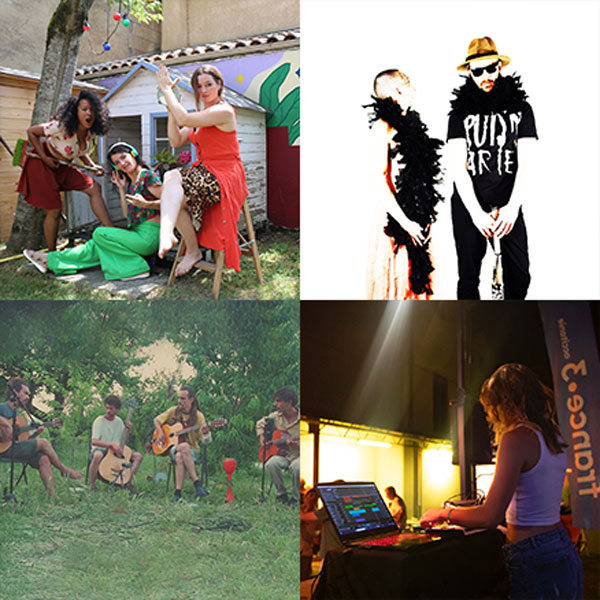
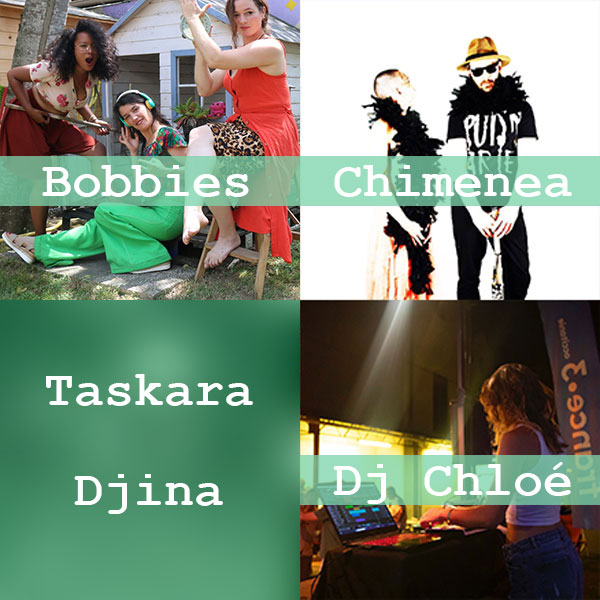
TZT V5

diff --git a/index.html b/index.html
@@ -54,10 +54,11 @@
 								<div class="inner">
 									<h2>Musique</h2>
 									<p>Bobbie : Trio de chanteuse<BR>
-									Causette : Quator Jazz Manouche<BR>
+									Taskara : Duo <BR>
+									Djina : R&B et soul old school
 									Chimenea : Duo electro poetico-sensuel<BR>
-									Dj Chloe : Ambianceuse électronisée<BR>
-									Taskara : Duo (en attente informations)<BR></p>
+									Dj Chloé : Ambianceuse électronisée<BR>
+									</p>
 									<ul class="actions">
 										
 									</ul>
@@ -69,10 +70,10 @@
 							<a href="#" class="image"><img src="images/pic02.jpg" alt="" data-position="25% 25%" /></a>
 							<div class="content">
 								<div class="inner">
-									<h2>Poésie x Lecture</h2>
-									<p> Olivier Ka : Lecture / Spectacle<BR>
-										Hélène : Poésie chuchotée (photo ?)<BR>
-										Alain-Fournier : Lecture Trilingue Français, Anglais et Occitan (photo ?)<BR>
+									<h2>Spectacle x Lecture</h2>
+									<p> Olivier Ka : Spectacle petits et grands<BR>
+										Hélène : Poésie à l'oreille<BR>
+										Alain-Fournier : Lecture Trilingue du Grand Meaulnes<BR>
 									</p>
 									<ul class="actions">
 										
